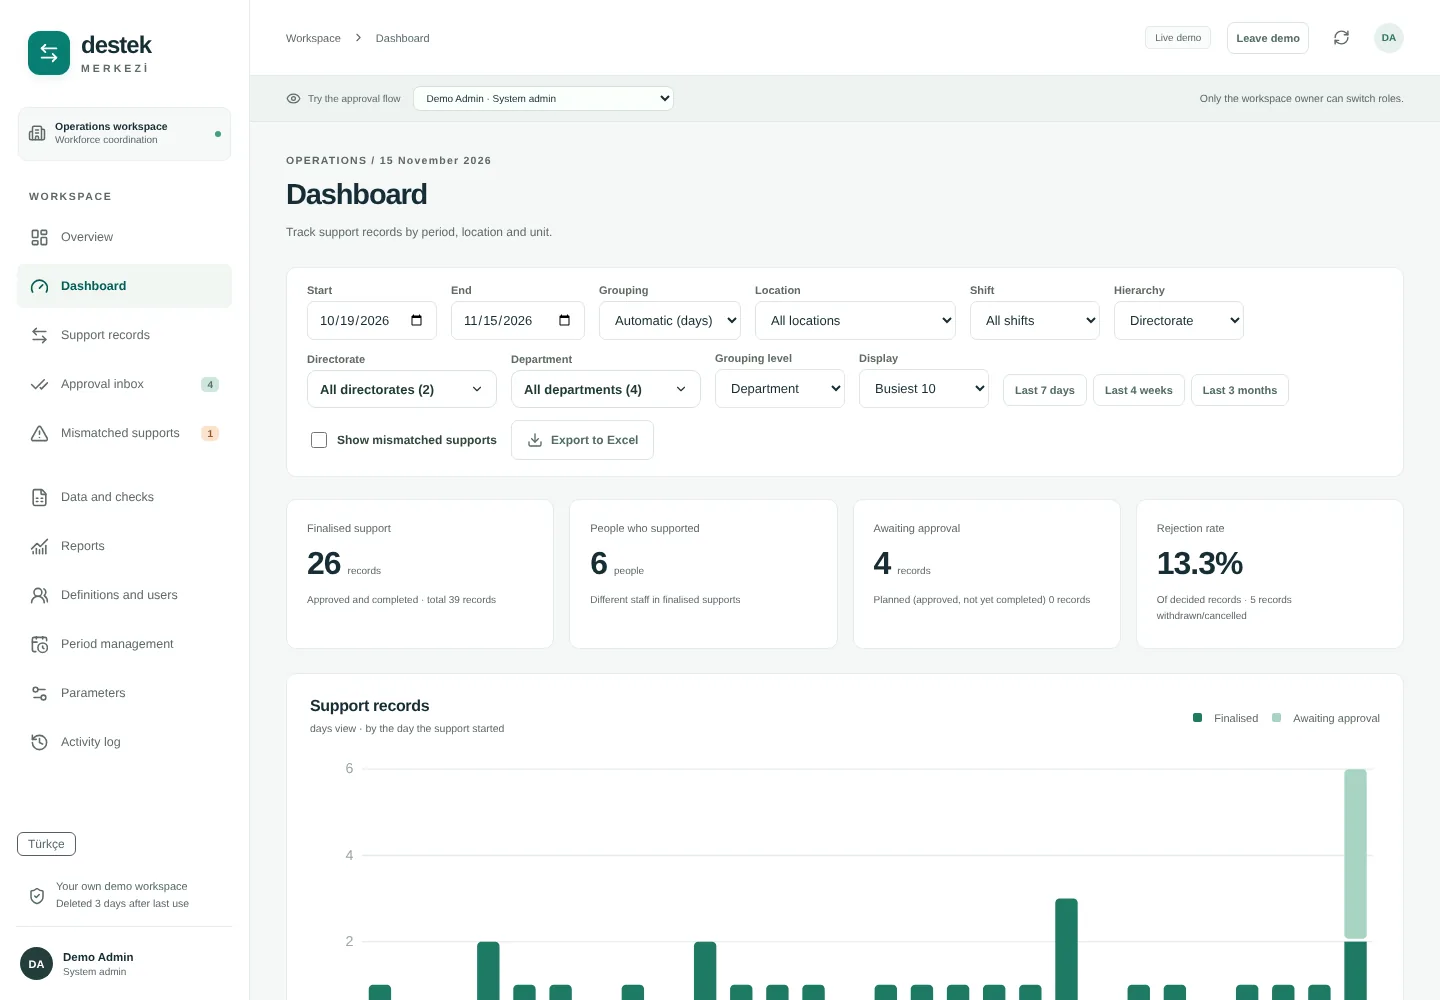
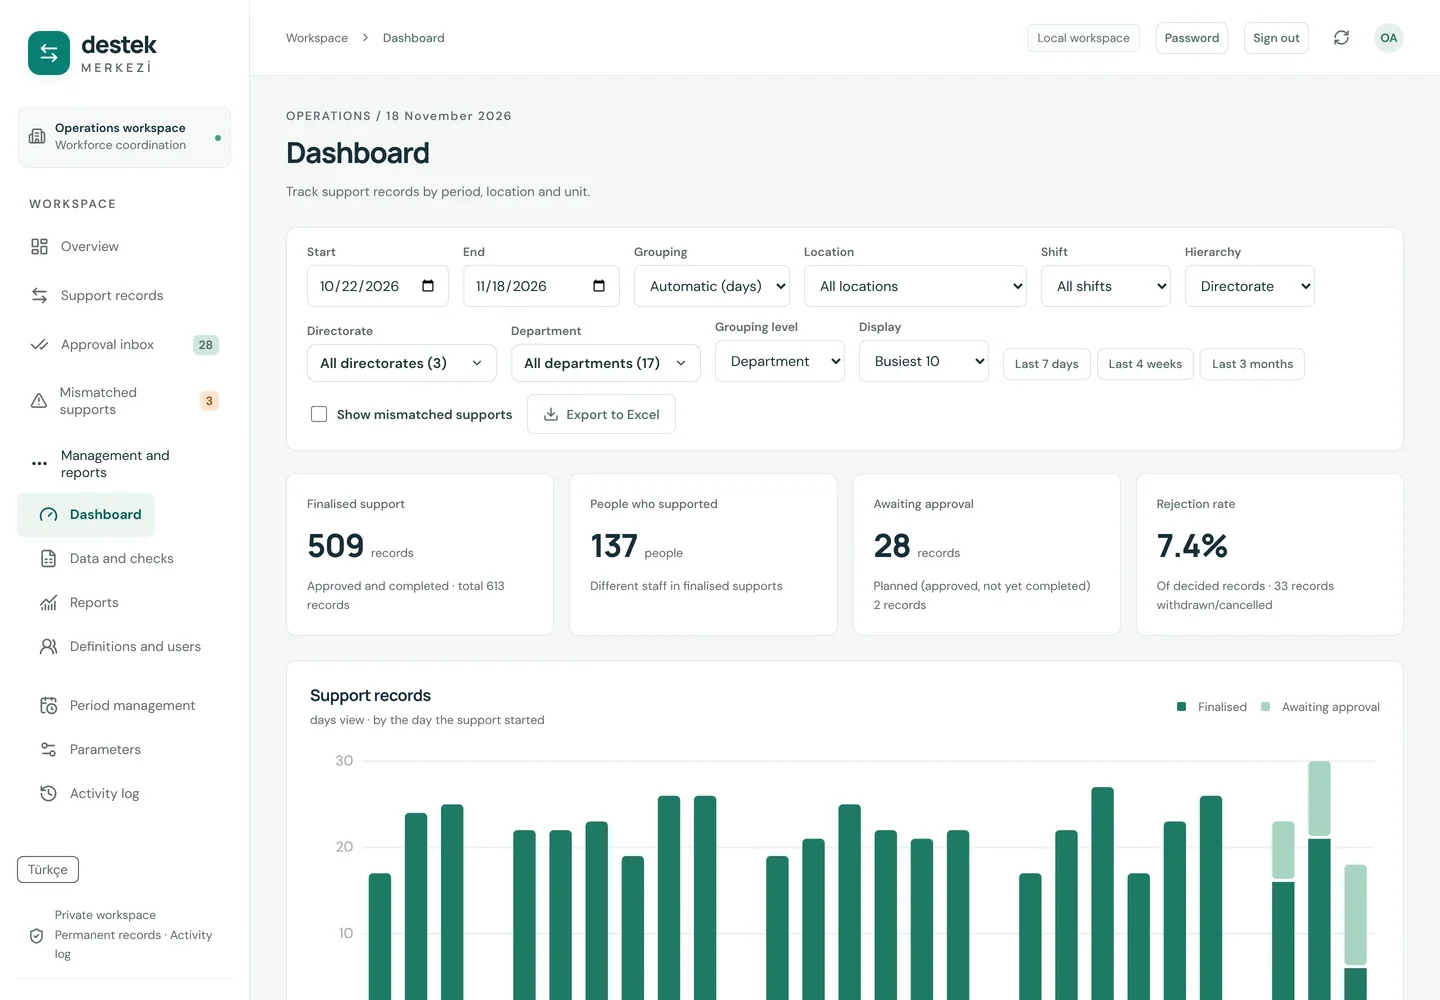
Proje kartlarına görsel, rol bölümleri, Diyalog Atölyesi sayfası, dolu İngilizce Destek görüntüleri
- Kartlarda her projenin ilk ekran görüntüsünden 640x400 küçük görsel (TR/EN)
- Sekiz projeye 'Rolüm ve yapım süreci' bölümü (TR/EN)
- Diyalog Atölyesi proje sayfası: metinler, üç ekran görüntüsü, rol, Türkçe arayüz notu
- Destek Merkezi EN genel bakış ve dashboard: 3 merkez, 17 bölüm, 142 kişilik kurgusal veriyle
- Destek Merkezi EN adı: Destek Merkezi – Workforce Support (yol haritasında da)

Claude-Session: https://claude.ai/code/session_01QKvCntD5zrJM71P4WPpRvw

diff --git a/src/data/projects.ts b/src/data/projects.ts
@@ -124,6 +124,10 @@ export const PROJECTS: Project[] = [
   // ── Operasyon ve depo ────────────────────────────────────────────
   {
     slug: 'video-zaman-etudu',
+    caseStudy: {
+      tr: { role: "Şirkette kullanmak için başladım: kronometreyle yapılan etütte kaçan anı tekrar izleyememek ve sonuçları elle Excel’e geçirmek asıl sorundu. Windows ve tarayıcı olmak üzere iki sürüm, videonun bilgisayardan hiç çıkmaması ve ticari olmaması benim kararlarım; kod yapay zekâ (Claude) ile yazıldı. Kullanırken yetersiz bulduğum yerleri kullanıcı gözüyle inceletip bulguları sırayla düzelttirdim." },
+      en: { role: "I started it for use at my company: in stopwatch studies a missed moment cannot be replayed and results are copied into Excel by hand. The two versions (Windows and browser), keeping the video on the computer and keeping it non-commercial are my decisions; the code was written with AI (Claude). Where I found it lacking in use, I had it reviewed from a user’s point of view and the findings fixed one by one." },
+    },
     method: { tr: '/tr/projeler/video-zaman-etudu/yontem-ve-gizlilik/', en: '/en/projects/video-zaman-etudu/method-and-privacy/' },
     name: 'Video Zaman Etüdü',
     nameEn: 'Video Time Study',
@@ -201,6 +205,10 @@ export const PROJECTS: Project[] = [
   },
   {
     slug: 'durus-ergonomi-analizi',
+    caseStudy: {
+      tr: { role: "Bir iş istasyonunu videodan değerlendirecek tek bir yer istedim: bütün yaygın yöntemler, Excel formları ve hangi yöntemin seçileceğine rehberlik. Kapsam, web ve masaüstü sürümleri, Türkçe ve İngilizce arayüz, MCP gerekmediği ve senaryo özelliklerinin uygulamanın içinde olması benim kararlarım; kod yapay zekâ (Claude) ile yazıldı. İlk sürüm “Duruş” adıyla bir claude.ai sayfası olarak başladı." },
+      en: { role: "I wanted one place to assess a workstation from video: all the common methods, Excel forms and guidance on which method to choose. The scope, the web and desktop versions, the English and Turkish interface, the decision that no MCP was needed and that scenarios belong inside the app are mine; the code was written with AI (Claude). The first version started as a claude.ai page called “Duruş”." },
+    },
     method: { tr: '/tr/projeler/durus-ergonomi-analizi/yontem-ve-gizlilik/', en: '/en/projects/durus-ergonomi-analizi/method-and-privacy/' },
     name: 'Duruş – Ergonomi Analizi',
     nameEn: 'Duruş – Ergonomics Analysis',
@@ -274,7 +282,12 @@ export const PROJECTS: Project[] = [
   },
   {
     slug: 'destek-merkezi',
+    caseStudy: {
+      tr: { role: "Problem kendi operasyonumdan: destek talepleri WhatsApp’tan gelir, kayıt gün sonunda, ertesi gün ya da ertesi hafta girilir. İlk sürüm (Node sunucusu ve Access istemcisi) ile kural belgesi bendeydi; Claude ile gözden geçirip sürüm sürüm geliştirdik. Vardiyadan gelen sabit süreler, toplu ve geriye dönük giriş, aynı güne ikinci kayıt engeli, işletmenin kendi hiyerarşisi ve verimlilik ile adam-saat hesabının çıkarılması benim kararlarım; kod yapay zekâ (Claude) ile yazıldı." },
+      en: { role: "The problem comes from my own operation: support requests arrive over WhatsApp and records are entered at the end of the day, the next day or the following week. I had the first version (a Node server and an Access client) and the rules document; we reviewed it with Claude and developed it release by release. Fixed durations from shifts, bulk and retroactive entry, blocking a second record for the same day, the business’s own hierarchy and dropping productivity and man-hour figures are my decisions; the code was written with AI (Claude)." },
+    },
     name: 'Destek Merkezi',
+    nameEn: 'Destek Merkezi – Workforce Support',
     category: 'operasyon',
     featured: true,
     hosting: 'vps',
@@ -310,7 +323,7 @@ export const PROJECTS: Project[] = [
       },
     },
     shots: [
-      { src: '/img/destek-merkezi/genel-bakis.webp', srcEn: '/img/destek-merkezi/genel-bakis-en.webp', w: 1400, h: 950, alt: { tr: 'Destek Merkezi genel bakış: kesinleşen ve onay bekleyen destekler, bölümler arası dağılım', en: 'Destek Merkezi overview: finalised and pending supports, distribution between departments' } },
+      { src: '/img/destek-merkezi/genel-bakis.webp', srcEn: '/img/destek-merkezi/genel-bakis-en.webp', w: 1400, h: 950, alt: { tr: 'Destek Merkezi genel bakış: kesinleşen ve onay bekleyen destekler, bölümler arası dağılım', en: 'Destek Merkezi overview: finalised and pending supports, distribution between 17 departments in three centres' } },
       { src: '/img/destek-merkezi/dashboard.webp', srcEn: '/img/destek-merkezi/dashboard-en.webp', w: 1440, h: 1000, alt: { tr: 'Destek Merkezi dashboard: dönem, lokasyon, vardiya ve bölüm filtreleri, özet göstergeler ve günlük destek kayıtları grafiği', en: 'Destek Merkezi dashboard: filters by period, location, shift and hierarchy, totals and a daily chart of support records' } },
       { src: '/img/destek-merkezi/toplu-giris.webp', srcEn: '/img/destek-merkezi/toplu-giris-en.webp', w: 1400, h: 950, alt: { tr: 'Toplu giriş: kişileri sabitle, birkaç günü vardiyayla tek seferde gir', en: 'Bulk entry: pin people and enter several days at once by shift' } },
       { src: '/img/destek-merkezi/hiyerarsi.webp', srcEn: '/img/destek-merkezi/hiyerarsi-en.webp', w: 1110, h: 1110, alt: { tr: 'Hiyerarşi tanımı: düzey adlarını ve derinliği işletme belirler', en: 'Hierarchy setup: the business names its own levels and depth' } },
@@ -344,6 +357,10 @@ export const PROJECTS: Project[] = [
   },
   {
     slug: 'ivme-oneri-kaizen',
+    caseStudy: {
+      tr: { role: "Şirketimdeki öneri sisteminin sorunlarını gördüm ve İvme’yi “bir öneri sistemi nasıl olmalı” sorusuyla, şirkete ait hiçbir şey içermeyen genel bir ürün olarak tasarladım. Uygulanamayan önerinin kazanç adımına gitmemesi, devirlerin geri alınabilmesi, vardiya yerine lokasyon, öneri içeriğinin dış yapay zekâya hiç gitmemesi ve iki sürümlü yapı benim kararlarım; kod yapay zekâ (Claude) ile yazıldı." },
+      en: { role: "I saw the problems of the suggestion system at my company and designed İvme as a generic product around the question “how should a suggestion system work?”, with nothing taken from the company. Closing ideas that could not be implemented before the savings step, undoable handovers, location instead of shift, never sending proposal content to an external AI and the two-edition design are my decisions; the code was written with AI (Claude)." },
+    },
     name: 'İvme – Öneri ve Kaizen Merkezi',
     nameEn: 'İvme – Suggestion and Kaizen Centre',
     category: 'operasyon',
@@ -427,6 +444,10 @@ export const PROJECTS: Project[] = [
   // ── İş ve ekip ───────────────────────────────────────────────────
   {
     slug: 'pusula',
+    caseStudy: {
+      tr: { role: "İşlerin e-posta, mesaj ve Excel arasında dağıldığını görüp şirkette birkaç kişiyle denemek için başladım. Neyin ekleneceği, neyin çıkarılacağı, Outlook’a uygun bildirimler, Google ile giriş ve MCP araç listesi benim kararlarım; kod yapay zekâ (Claude) ile yazıldı. Pusula, aynı çekirdek üzerinde web ve MCP ikili yapısını ilk kurduğum proje." },
+      en: { role: "I started it after seeing work scattered across email, chat and Excel, to trial it with a few people at my company. What to add and what to remove, Outlook-friendly notifications, Google sign-in and the MCP tool list are my decisions; the code was written with AI (Claude). Pusula is the first project where I set up the web + MCP dual structure on one core." },
+    },
     name: 'Pusula',
     category: 'ekip',
     featured: true,
@@ -511,6 +532,10 @@ export const PROJECTS: Project[] = [
   },
   {
     slug: 'aday-atolyesi',
+    caseStudy: {
+      tr: { role: "Adayların iş görüşmelerine kendi kendine hazırlanabilmesi için kurdum. Kapsamı ben belirledim, Claude’a uzman gözüyle yaptırdığım incelemede çıkan eksiklerden hangilerinin düzeltileceğini ben seçtim; vaka içerikleri ve kod yapay zekâ (Claude) ile yazıldı. Arayüzün Türkçe kalması ve tek puan verilmemesi de benim kararlarım." },
+      en: { role: "I built it so candidates can prepare for job interviews on their own. I set the scope and chose which gaps from an expert-eye review I had Claude do would be fixed; the case content and the code were written with AI (Claude). Keeping the interface in Turkish and never giving a single score are also my decisions." },
+    },
     name: 'Aday Atölyesi',
     category: 'ekip',
     turkishOnly: {
@@ -608,6 +633,61 @@ export const PROJECTS: Project[] = [
     },
   },
 
+  {
+    slug: 'diyalog-atolyesi',
+    caseStudy: {
+      tr: { role: 'Fikir, iletişim, liderlik ve doğru soru sorma becerisini çalışabileceğim bir uygulama istememden çıktı. Ürün yönünü bilerek Claude’a bıraktım; ayrı bir uygulama olarak Aday Atölyesi’ne bağlanması, kredi azalınca bildirim gelmesi ve tekrar oynayışta ezberi önleyecek varyant sistemi benim kararlarım; kod yapay zekâ (Claude) ile yazıldı. Pilotta rapor cevabı gösterdiği için ikinci denemenin kolaylaştığını gördüm; aynı senaryoya farklı kök nedenler getiren varyantlar bu yüzden sırada.' },
+      en: { role: 'The idea came from wanting an app to practise communication, leadership and asking the right questions. I deliberately left the product direction to Claude; keeping it a separate app linked to Aday Atölyesi, credit alerts and a variant system against memorising replays are my decisions; the code was written with AI (Claude). In the pilot I saw that the report makes a second attempt easier because it reveals the answer, so variants that give the same scenario different root causes are next.' },
+    },
+    name: 'Diyalog Atölyesi',
+    category: 'ekip',
+    turkishOnly: {
+      en: 'Built for Turkish-speaking managers: the characters answer in Turkish and the questions are scored on Turkish phrasing, so the app stays in Turkish. “Watch the sample session” shows a finished report without an AI call.',
+    },
+    hosting: 'vps',
+    url: 'https://diyalog.ysfdurak.com/',
+    isaret: 'Diyalog Atölyesi',
+    repo: GH + 'diyalog-atolyesi',
+    tech: ['JavaScript', 'Node.js', 'Anthropic API', 'SQLite', 'MCP', 'Docker'],
+    og: '/img/diyalog-atolyesi/og.jpg',
+    shots: [
+      { src: '/img/diyalog-atolyesi/oturum.webp', w: 840, h: 860, alt: { tr: 'Oturum: durum, rolün ve karşındaki kişi; açık uçlu sorular gizli bilgileri tek tek açıyor, 5 soru hakkı', en: 'Session: the situation, your role and the other person; open questions unlock hidden facts one by one, 5 questions allowed' } },
+      { src: '/img/diyalog-atolyesi/rapor.webp', w: 840, h: 860, alt: { tr: 'Rapor: 100 üzerinden skor ve beş boyut (açık uçlu soru, derinleşme, varsayımsız soru, bilgi keşfi, sonuç)', en: 'Report: a score out of 100 and five dimensions (open questions, follow-up depth, no leading questions, facts uncovered, conclusion)' } },
+      { src: '/img/diyalog-atolyesi/senaryolar.webp', w: 840, h: 900, alt: { tr: 'Senaryolar: operasyon, ekip yönetimi ve iş geliştirme; günün senaryosu ve örnek oturum', en: 'Scenarios: operations, team management and business development; scenario of the day and a sample session' } },
+    ],
+    demo: {
+      tr: 'Hesap gerekmez: bir senaryo seç, 5 soru sor, kök nedeni tahmin et; raporda her soru için “şöyle sorabilirdin” önerisi gelir. Günde 3 canlı oturum hakkın var. Yapay zekâ kullanmayan “Örnek oturumu izle” her zaman açık. Konuşma metni kaydedilmez, yalnızca anonim özet tutulur.',
+      en: 'No account needed: pick a scenario, ask 5 questions and guess the root cause; the report suggests a better way to ask each question. You get 3 live sessions a day, and “Örnek oturumu izle” (watch the sample session) works without an AI call. Conversations are not stored, only an anonymous summary. The interface is in Turkish.',
+    },
+    tr: {
+      tagline: 'Yöneticilerin doğru soru sormayı çalıştığı pratik alanı: karakter bildiğini ancak doğru soruya anlatır, sorular rubrikle puanlanır.',
+      problem:
+        'Sorun çözerken yöneticiler çoğu zaman nedeni baştan varsayar, evet/hayır ya da suçlayan sorular sorar ve asıl bilgiye ulaşamaz. Bu beceri toplantıda değil pratikle gelişir; genel bir sohbet botuyla çalışmak da işe yaramaz, çünkü bot her şeyi anlatır ve iki deneme karşılaştırılamaz.',
+      solution: [
+        'Senaryo, karakter ve gizli bilgiler: her bilginin bir açılma koşulu var; evet/hayır sorusu kısa, suçlayan soru savunmacı cevap alır',
+        '5 soru hakkı, sonunda kök neden tahmini; gizli bilgiler ve kök neden oturum bitene kadar tarayıcıya hiç gönderilmez',
+        'Beş boyutlu rubrik: üç boyut kodla, iki boyut yazılı ölçüte göre modelle puanlanır; toplam skor kodla hesaplanır, her soru etiketi raporda görünür',
+        'Her soru için “şöyle sorabilirdin” önerisi ve zayıf soruyu yeniden deneme',
+        'Karakter ve değerlendirici ayrı model çağrıları; oturum başına en fazla 6 çağrı, ziyaretçi ve site günlük sınırı, kredi biterse kendiliğinden kapanıp açılma',
+        'Aynı çekirdek iki kapıdan: web arayüzü ve anahtarla açılan MCP kapısı (Claude’un içinden oynama)',
+        'Gizlilik: konuşma kaydedilmez, IP yerine tuzlu özet tutulur; gelişim grafiği tarayıcıda',
+      ],
+    },
+    en: {
+      tagline: 'A practice space where managers learn to ask the right questions: the character only tells what they know when asked the right way, and questions are scored against a rubric.',
+      problem:
+        'When solving problems, managers often assume the cause up front, ask yes/no or blaming questions and never reach the real information. The skill grows with practice, not in meetings, and a general chatbot does not help: it tells everything, and two attempts cannot be compared.',
+      solution: [
+        'Scenario, character and hidden facts: each fact has an unlock condition; a yes/no question gets a short answer, a blaming one gets a defensive one',
+        '5 questions, then a root-cause guess; hidden facts and the root cause never reach the browser before the session ends',
+        'Five-dimension rubric: three dimensions scored in code, two by the model against written criteria; the total is calculated in code and every question label shows in the report',
+        'A “you could have asked” suggestion for every question, and a retry for weak ones',
+        'Separate model calls for the character and the reviewer; at most 6 calls per session, daily visitor and site limits, automatic shutdown and recovery when credit runs out',
+        'One core, two doors: the web UI and a key-protected MCP gate for playing inside Claude',
+        'Privacy: conversations are not stored, a salted hash replaces the IP address; the progress chart stays in the browser',
+      ],
+    },
+  },
 
   // ── Veri ve raporlama ────────────────────────────────────────────
   {
@@ -721,6 +801,10 @@ export const PROJECTS: Project[] = [
   // ── Öğrenme ──────────────────────────────────────────────────────
   {
     slug: 'kesit',
+    caseStudy: {
+      tr: { role: "SQL, Power BI ve Python uygulamalarını önce kendi çalışmam için yaptım, sonra kapsamı genişletip Kesit paketi olarak yayımladım; istatistik uygulaması sonradan eklendi. Hangi konuların, ortak veri setlerinin ve rol yollarının olacağına ben karar verdim; ders içeriği ve kod yapay zekâ (Claude) ile yazıldı." },
+      en: { role: "I first built the SQL, Power BI and Python apps for my own study, then widened the scope and published them as the Kesit suite; the statistics app came later. I decided the topics, the shared datasets and the role paths; the lesson content and the code were written with AI (Claude)." },
+    },
     name: 'Kesit (SQL, Power BI, Python, İstatistik)',
     nameEn: 'Kesit (SQL, Power BI, Python, Statistics)',
     category: 'ogrenme',
@@ -805,6 +889,10 @@ export const PROJECTS: Project[] = [
   },
   {
     slug: 'ingilizce-atolyesi',
+    caseStudy: {
+      tr: { role: "Türkçe konuşanlar için bir İngilizce öğrenme uygulaması olarak birkaç oturumda Claude ile geliştirdim. Sıcak, oyunsu görsel dil, YDS ve YÖKDİL hazırlığına öncelik verilmesi ve uygulamanın ticari olmadan tarayıcıda ve telefonda kalması benim kararlarım; içerik ve kod yapay zekâ (Claude) ile yazıldı." },
+      en: { role: "I developed it with Claude over several sessions as an English learning app for Turkish speakers. The warm, playful look, putting YDS and YÖKDİL exam prep first and keeping it non-commercial in the browser and on the phone are my decisions; the content and the code were written with AI (Claude)." },
+    },
     name: 'İngilizce Atölyesi',
     category: 'ogrenme',
     turkishOnly: {

diff --git a/src/styles/global.css b/src/styles/global.css
@@ -70,6 +70,10 @@ main { padding-bottom: 4rem; }
   padding: 1.1rem 1.2rem;
   background: var(--bg);
 }
+.card-thumb { display: block; margin: -1.1rem -1.2rem 0.9rem; border-bottom: 1px solid var(--line); border-radius: var(--radius) var(--radius) 0 0; overflow: hidden; aspect-ratio: 16 / 10; background: var(--line); }
+.card-thumb img { display: block; width: 100%; height: 100%; object-fit: cover; object-position: top left; transition: transform 0.3s ease; }
+.card:hover .card-thumb img { transform: scale(1.03); }
+@media (prefers-reduced-motion: reduce) { .card:hover .card-thumb img { transform: none; } }
 .card p { margin: 0; color: var(--ink-soft); font-size: 0.97rem; }
 .card h3 a { color: var(--ink); text-decoration: none; }
 .card h3 a:hover { color: var(--accent); }
